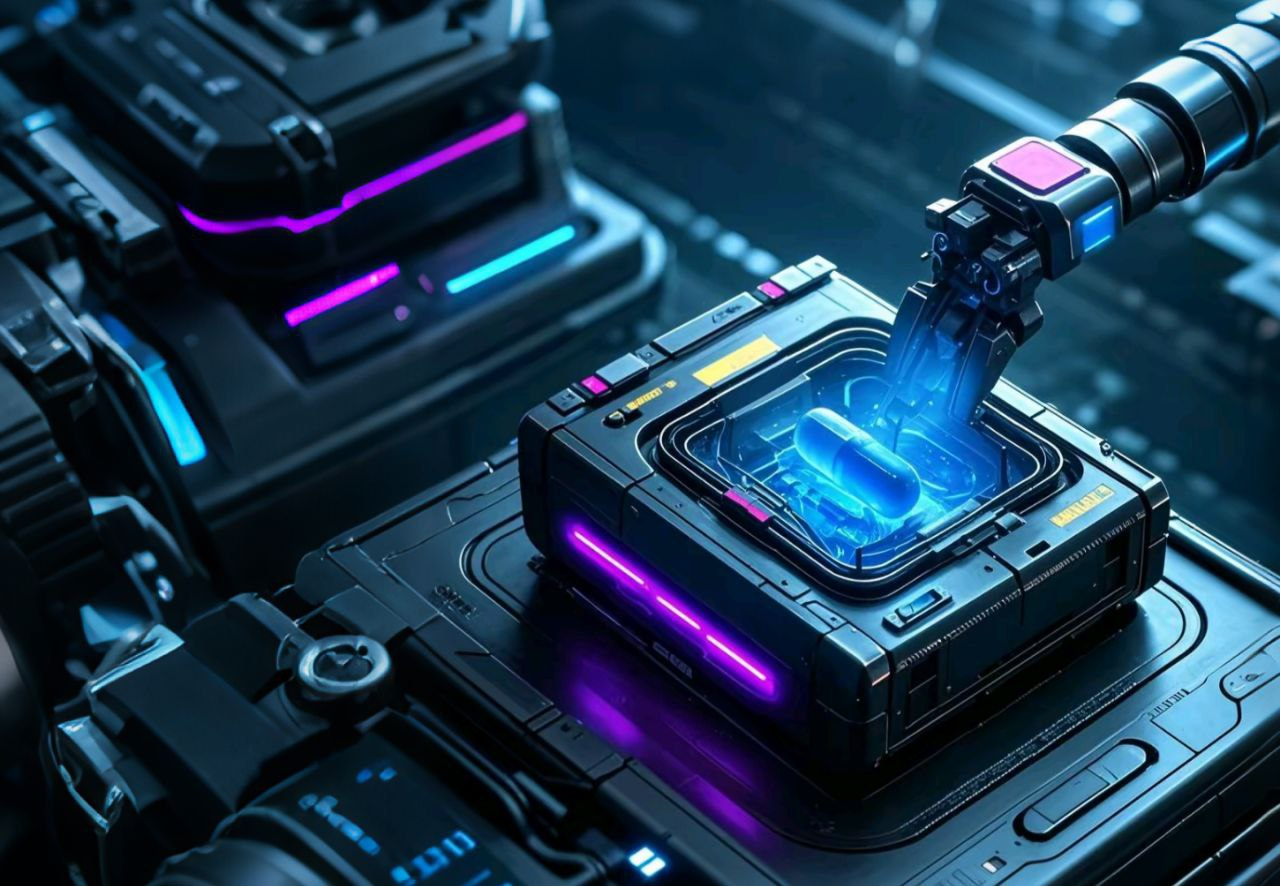
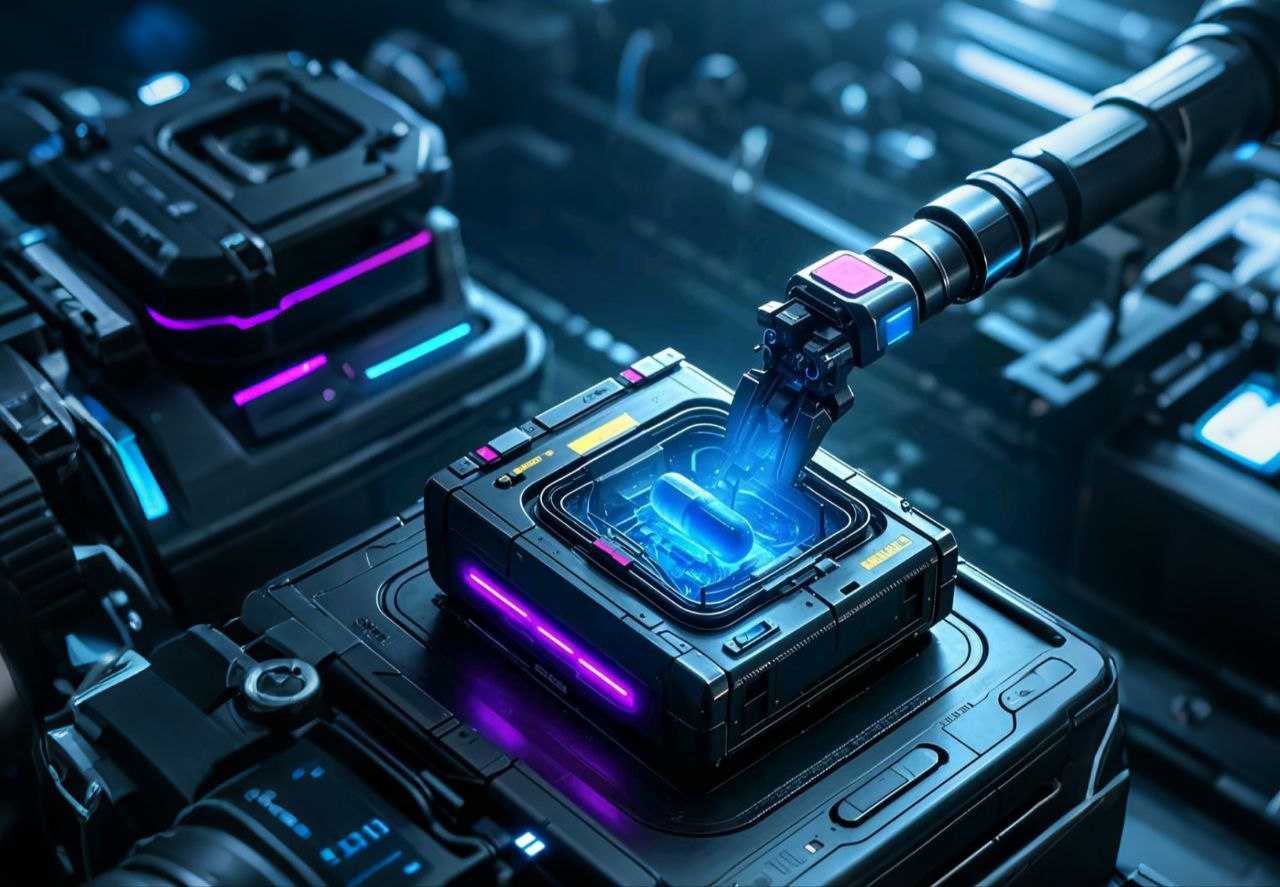
update web

diff --git a/index.html b/index.html
@@ -20,7 +20,7 @@
             height: 100%;
             z-index: -1;
             background-size: cover;
-            background-position: right;
+            background-position: center;
         }
         #text-container {
             position: absolute;
